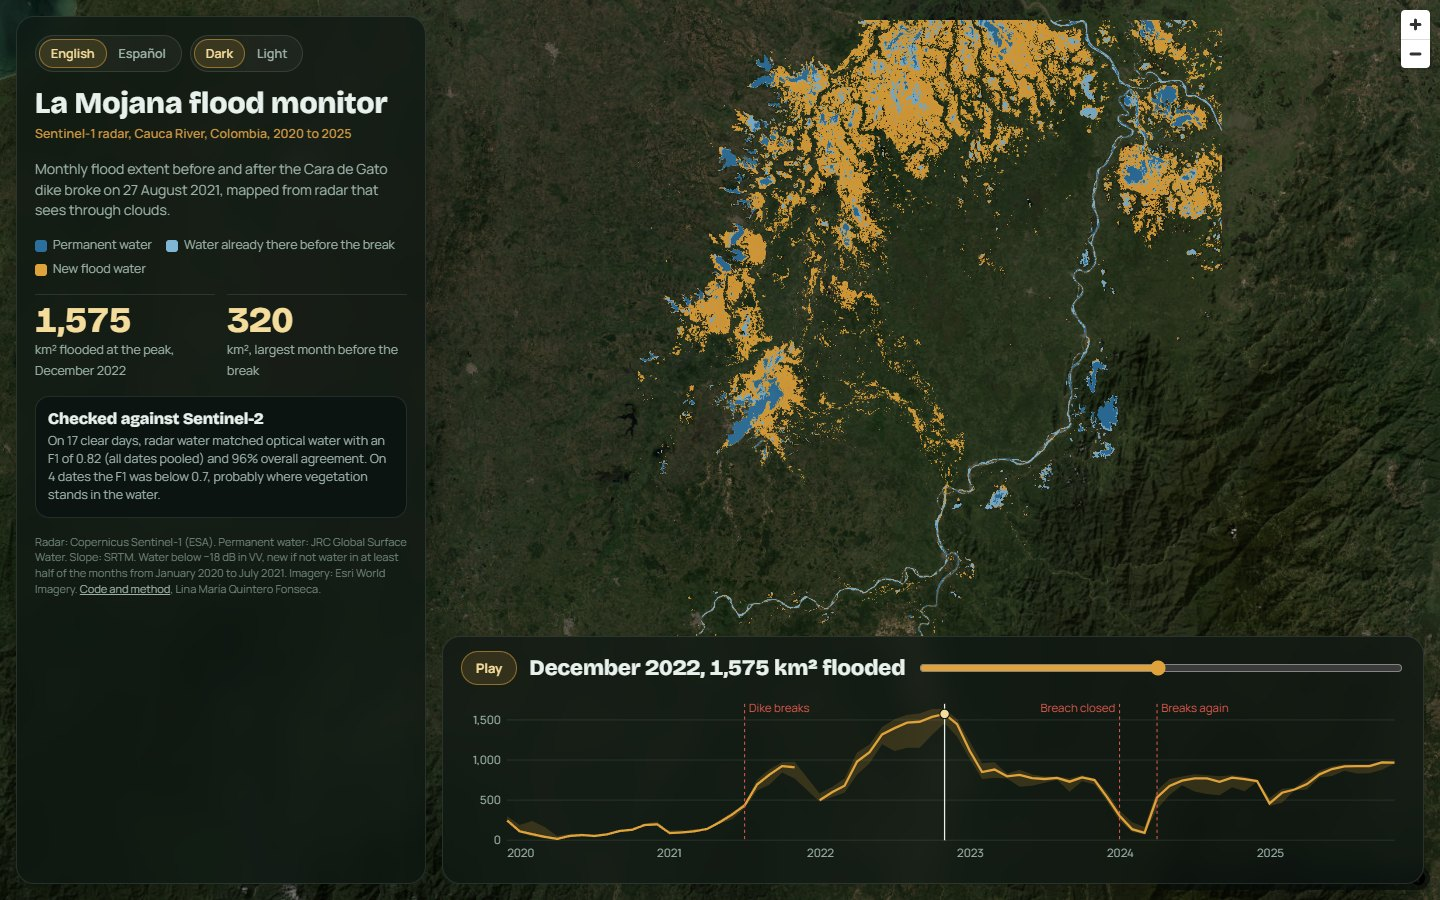
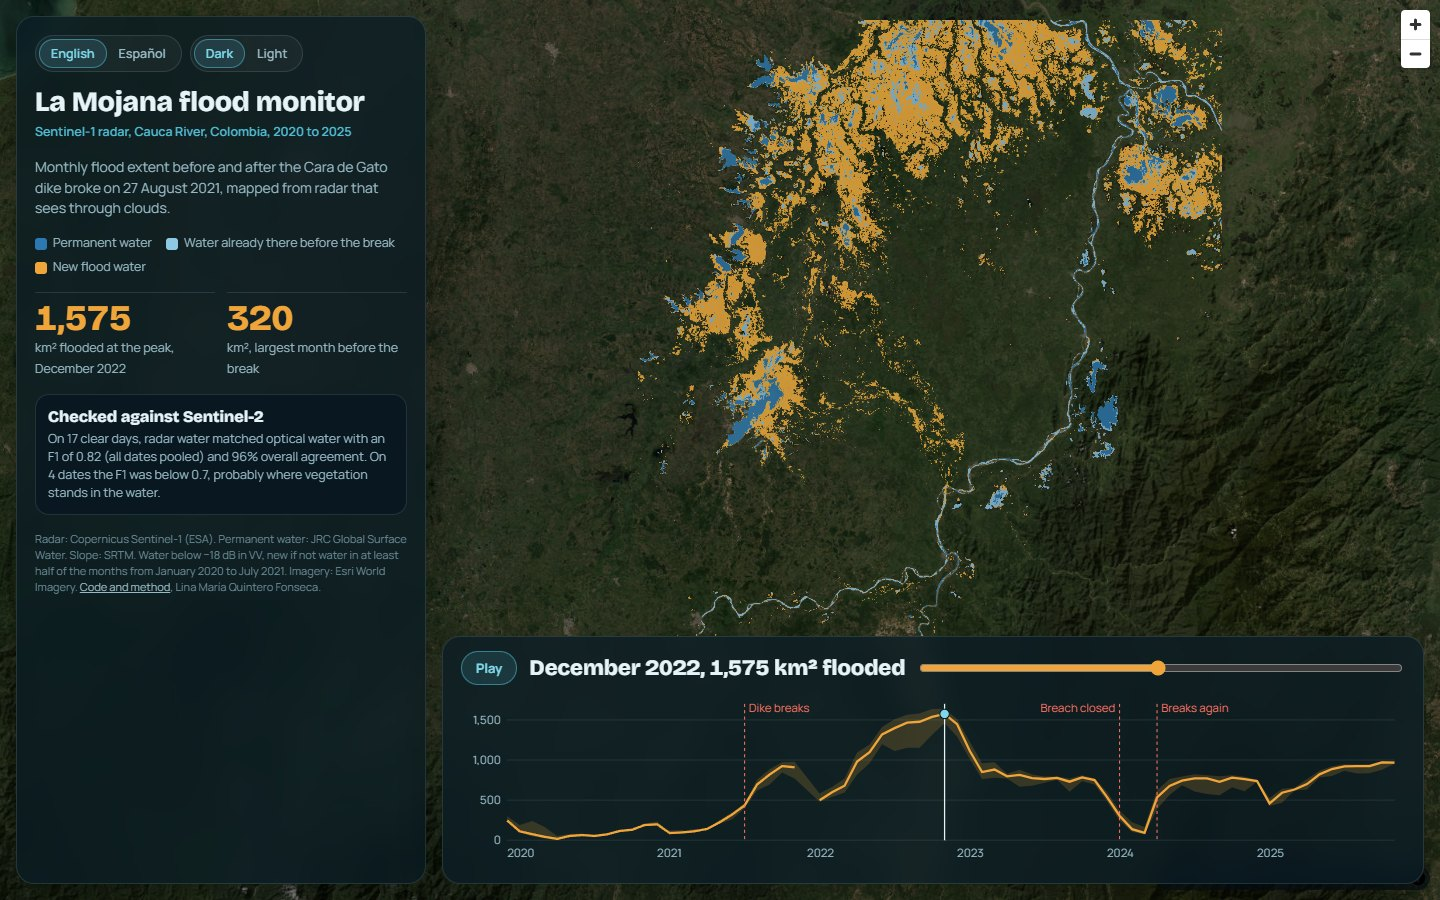
Own colour palette: deep water blue with cyan

Changed region(s): [[0.0, 0.0311, 0.2812, 0.56], [0.0, 0.5911, 0.2812, 0.6844], [0.3125, 0.7156, 0.375, 0.7778]]

diff --git a/docs/index.html b/docs/index.html
@@ -11,19 +11,19 @@
 <script src="https://unpkg.com/maplibre-gl@4.7.1/dist/maplibre-gl.js"></script>
 <style>
 :root{
-  --bg:#0a100e; --glass:rgba(12,21,18,.72); --glass-strong:rgba(10,18,16,.88); --line:rgba(206,232,220,.12);
-  --ink:#e8f1ec; --muted:#9bb2a8; --faint:#6d8379; --gold1:#f4dc9c; --gold2:#c99440;
-  --flood:#e0a23a; --before:#7fb6d6; --perm:#2b6f9e; --event:#e0584c;
-  --chip:rgba(255,255,255,.04); --grid:rgba(206,232,220,.10); --shadow:0 18px 50px rgba(0,0,0,.38);
-  --on:rgba(224,162,58,.14); --on-line:rgba(224,162,58,.55); --attrib:rgba(8,14,12,.7);
+  --bg:#06141c; --glass:rgba(8,26,36,.74); --glass-strong:rgba(7,22,31,.9); --line:rgba(190,228,240,.13);
+  --ink:#e6f4f8; --muted:#97b9c4; --faint:#678995; --gold1:#7fd8ea; --gold2:#4fbcd4;
+  --flood:#f0a53a; --before:#8ec9e3; --perm:#2c78b0; --event:#ff6f61;
+  --chip:rgba(255,255,255,.04); --grid:rgba(190,228,240,.10); --shadow:0 18px 50px rgba(0,0,0,.42);
+  --on:rgba(79,188,212,.15); --on-line:rgba(79,188,212,.55); --attrib:rgba(5,16,22,.72);
   --display:"Bricolage Grotesque","Manrope",system-ui,sans-serif; --body:"Manrope",system-ui,sans-serif;
 }
 :root[data-theme="light"]{
-  --bg:#d5eadd; --glass:rgba(224,242,231,.78); --glass-strong:rgba(218,239,226,.9); --line:rgba(22,72,46,.16);
-  --ink:#0f2619; --muted:#3a5a48; --faint:#5d7c6b; --gold1:#b98320; --gold2:#7a500f;
-  --flood:#b8780e; --before:#3d86ad; --perm:#1d4f73; --event:#b8392f;
-  --chip:rgba(255,255,255,.45); --grid:rgba(15,38,25,.13); --shadow:0 18px 50px rgba(20,60,40,.2);
-  --on:rgba(184,120,14,.14); --on-line:rgba(184,120,14,.55); --attrib:rgba(224,242,231,.82);
+  --bg:#d9edf1; --glass:rgba(226,243,247,.8); --glass-strong:rgba(219,239,244,.92); --line:rgba(14,60,78,.16);
+  --ink:#0b2630; --muted:#355a67; --faint:#58808c; --gold1:#0e7590; --gold2:#0b5f75;
+  --flood:#c2780c; --before:#3d8db4; --perm:#1b5582; --event:#c23b30;
+  --chip:rgba(255,255,255,.5); --grid:rgba(11,38,48,.12); --shadow:0 18px 50px rgba(14,60,78,.18);
+  --on:rgba(14,117,144,.13); --on-line:rgba(14,117,144,.5); --attrib:rgba(226,243,247,.85);
 }
 *{box-sizing:border-box}
 html,body{margin:0;height:100%;background:var(--bg);color:var(--ink);font-family:var(--body);font-size:14px;line-height:1.45}
@@ -47,7 +47,7 @@ h1{font:800 28px/1.04 var(--display);margin:0;text-wrap:balance}
 .legend i{display:inline-block;width:12px;height:12px;border-radius:3px;margin-right:6px;vertical-align:middle}
 .big{display:grid;grid-template-columns:1fr 1fr;gap:12px}
 .big div{border-top:1px solid var(--line);padding-top:8px}
-.big b{display:block;font:800 36px/1 var(--display);font-variant-numeric:tabular-nums;color:var(--gold1)}
+.big b{display:block;font:800 36px/1 var(--display);font-variant-numeric:tabular-nums;color:var(--flood)}
 .big span{color:var(--muted);font-size:12.5px}
 .card{border:1px solid var(--line);border-radius:14px;padding:12px;background:var(--glass-strong)}
 .card h2{font:700 16px var(--display);margin:0 0 4px}
